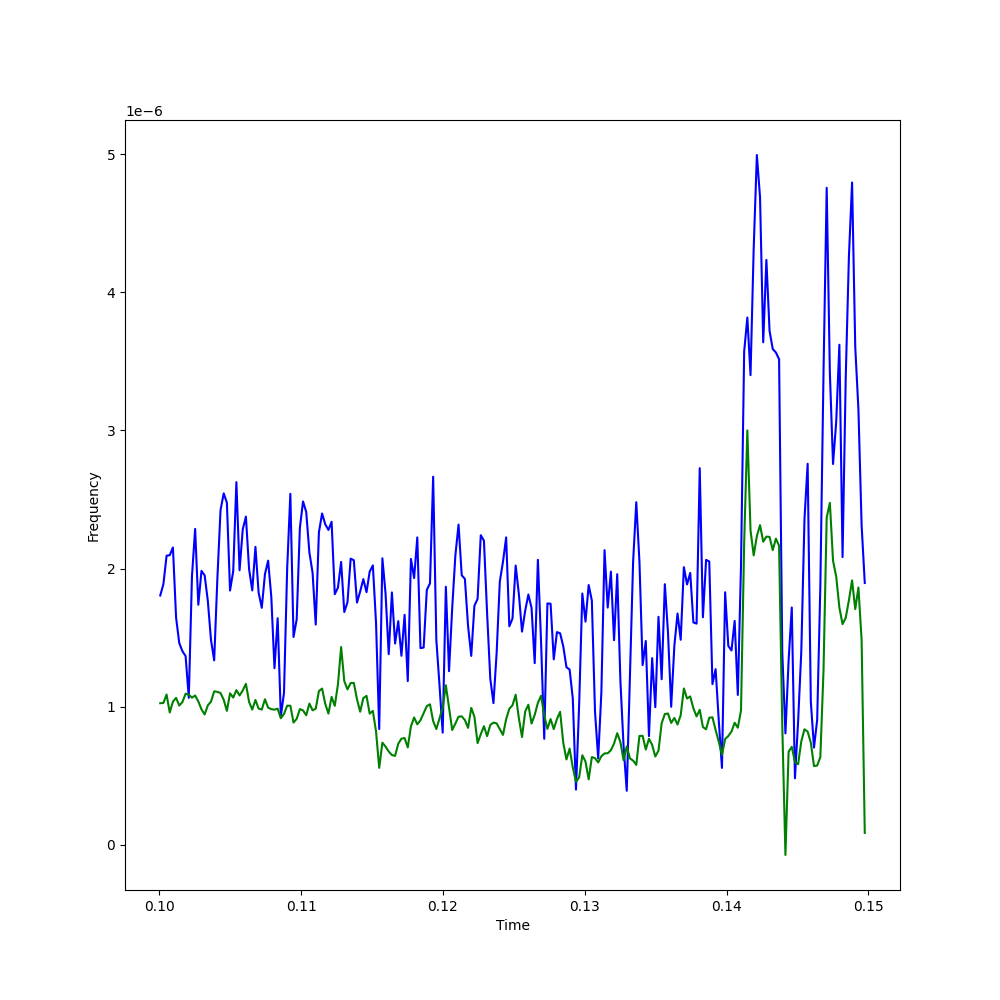
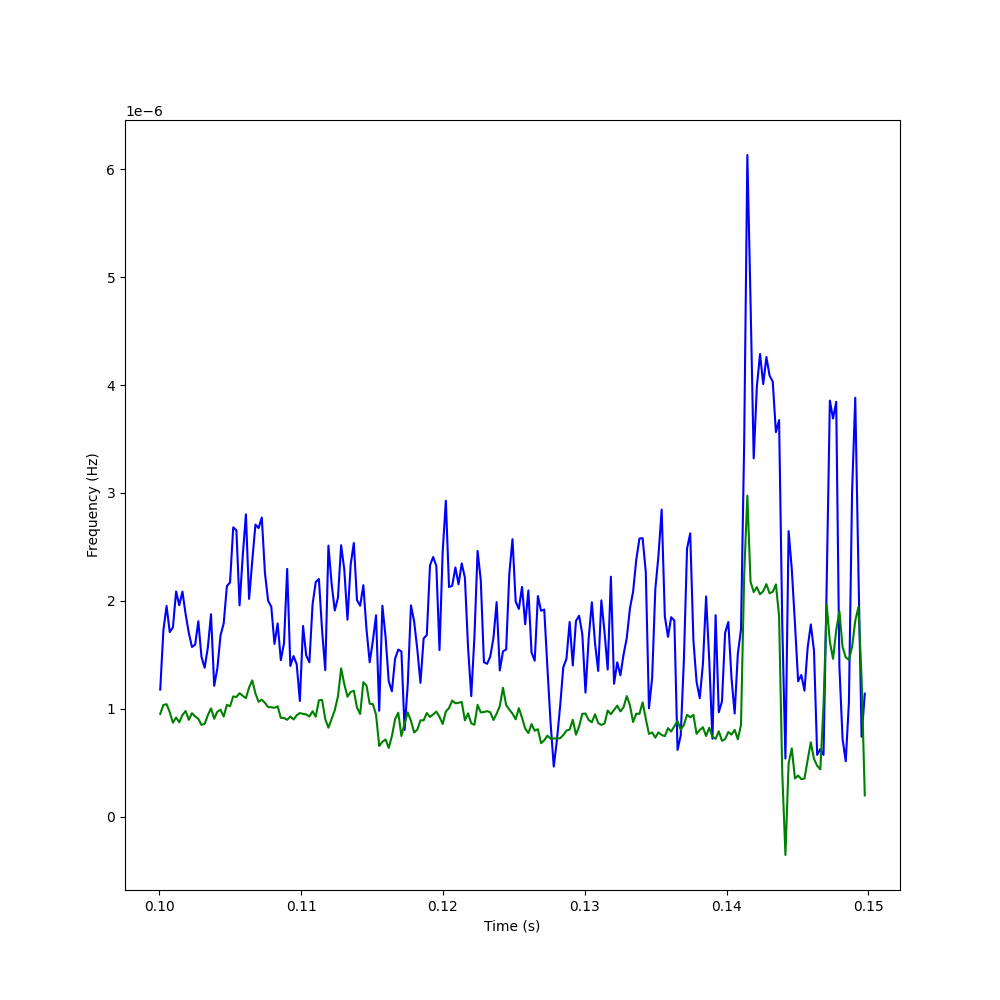
Removed some .swp files and made minor fixes

Changed region(s): [[0.155, 0.155, 0.868, 0.806], [0.093, 0.465, 0.124, 0.527], [0.496, 0.899, 0.527, 0.93]]

diff --git a/SourceCode/lowpass.py b/SourceCode/lowpass.py
@@ -50,8 +50,8 @@ def plotLowpass(time,signal,filteredSignal,channelNumber,startTime,endTime):
     #print(filteredSignal[first:last, channelNumber], file=sys.stderr);
     plt.plot(time[first:last], signal[first:last,channelNumber], 'b-', label='signal')
     plt.plot(time[first:last], filteredSignal[first:last, channelNumber], 'g-', label='filtered signal')
-    plt.xlabel("Time");
-    plt.ylabel("Frequency");
+    plt.xlabel("Time (s)");
+    plt.ylabel("Frequency (Hz)");
     plt.savefig('figures/lowpassFigure.png')
     plt.close()
 
